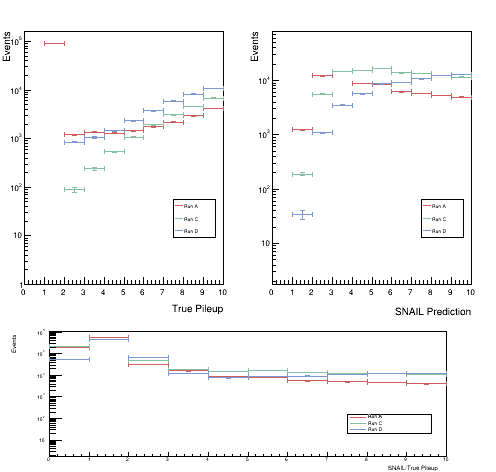
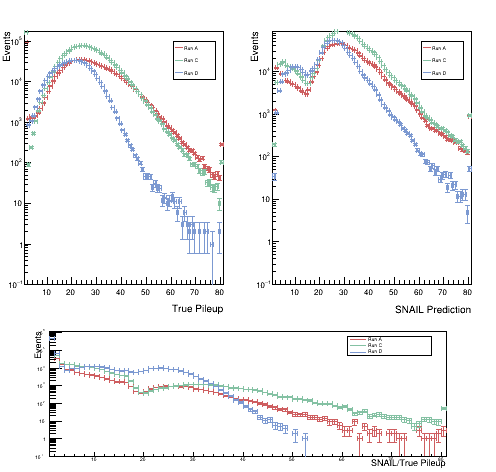
draft plot

diff --git a/genScripts/histpileupFormat.py b/genScripts/histpileupFormat.py
@@ -27,6 +27,9 @@ openfiles3 = []
 hists = []
 hists2 = []
 hists3 = []
+maxlist1 = []
+maxlist2 = []
+maxlist3 = []
 
 # Creating Canvas Pads
 
@@ -102,13 +105,17 @@ for i in tqdm(range(3)):
     hist.GetYaxis().SetTitleOffset(1.0)
     #xMax = hist.GetXaxis().GetXmax() * 1.75
     yMax = hist.GetMaximum() * 1.75
-    hist.SetMaximum(yMax)
+    maxlist1.append(yMax)
+    if i == 2:
+        yMaxn = np.max(np.asarray(maxlist1))
+        hist.SetMaximum(yMaxn)
     #hist.GetXaxis().SetLimits(1, xMax)
-    yMin = hist.GetMinimum() * 1.75
+    hist.SetMinimum(0.1)
+    """yMin = hist.GetMinimum() * 1.75
     if yMin == 0:
         hist.SetMinimum(1)
     else:
-        hist.SetMinimum(yMin)
+        hist.SetMinimum(yMin)"""
     hists.append(hist)
 
     
@@ -120,18 +127,22 @@ for i in tqdm(range(3)):
     hist2.GetYaxis().SetTitle("Events")
     hist2.GetXaxis().SetTitle("SNAIL Prediction")
     hist2.GetXaxis().SetTitleSize(0.045)
-    hist2.GetXaxis().SetTitleOffset(1.2)
+    hist2.GetXaxis().SetTitleOffset(1.1)
     hist2.GetYaxis().SetTitleSize(0.045)
     hist2.GetYaxis().SetTitleOffset(1.0)
     #xMax = hist.GetXaxis().GetXmax() * 1.75
     yMax2 = hist2.GetMaximum() * 1.75
-    hist2.SetMaximum(yMax2)
+    maxlist2.append(yMax2)
+    if i == 2:
+        yMax2n = np.max(np.asarray(maxlist2))
+        hist2.SetMaximum(yMax2n * 1.75)
     #hist.GetXaxis().SetLimits(1, xMax)
-    yMin2 = hist.GetMinimum() * 1.75
+    hist2.SetMinimum(0.1)
+    """yMin2 = hist.GetMinimum() * 1.75
     if yMin2 == 0:
         hist2.SetMinimum(1)
     else:
-        hist2.SetMinimum(yMin2)
+        hist2.SetMinimum(yMin2)"""
     hists2.append(hist2)
 
     hist3.SetLineColor(int(lineColors[i]))
@@ -141,25 +152,29 @@ for i in tqdm(range(3)):
     hist3.SetTitle("")
     hist3.GetYaxis().SetTitle("Events")
     hist3.GetXaxis().SetTitle("SNAIL/True Pileup")
-    hist3.GetXaxis().SetTitleSize(0.045)
-    hist3.GetXaxis().SetTitleOffset(1.0)
-    hist3.GetYaxis().SetTitleSize(0.045)
-    hist3.GetYaxis().SetTitleOffset(1.0)
+    hist3.GetXaxis().SetTitleSize(0.06)
+    hist3.GetXaxis().SetTitleOffset(0.5)
+    hist3.GetYaxis().SetTitleSize(0.06)
+    hist3.GetYaxis().SetTitleOffset(0.25)
     #xMax = hist.GetXaxis().GetXmax() * 1.75
     yMax3 = hist3.GetMaximum() * 1.75
-    hist3.SetMaximum(yMax3)
+    maxlist3.append(yMax3)
+    if i == 2:
+        yMax3n = np.max(np.asarray(maxlist3))
+        hist3.SetMaximum(yMax3n)
     #hist.GetXaxis().SetLimits(1, xMax)
-    yMin3 = hist.GetMinimum() * 1.75
-    if yMin3 == 0:
+    # yMin3 = hist.GetMinimum() * 1.75
+    hist3.SetMinimum(0.1)
+    """if yMin3 == 0:
         hist3.SetMinimum(1)
     else:
-        hist3.SetMinimum(yMin3)
+        hist3.SetMinimum(yMin3)"""
     hists3.append(hist3)
     
     # hists.append(hist2)
-    hists[i].GetXaxis().SetRangeUser(0.0,10.0)
-    hists2[i].GetXaxis().SetRangeUser(0.0,10.0)
-    hists3[i].GetXaxis().SetRangeUser(0.0,10.0)
+    hists[i].GetXaxis().SetRangeUser(1.0,90.0)
+    hists2[i].GetXaxis().SetRangeUser(1.0,90.0)
+    hists3[i].GetXaxis().SetRangeUser(1.0,90.0)
 
     if i == 0:
         pileupPad.cd()
@@ -214,15 +229,15 @@ for i in tqdm(range(3)):
 
 
 predvpileupPad.cd()
-ppleg = predvpileupPad.BuildLegend(0.7, 0.25, 0.87, 0.37)
+ppleg = predvpileupPad.BuildLegend(0.7, 0.75, 0.87, 0.87)
 ppleg.Draw()
 
 predictionPad.cd()
-predleg = predictionPad.BuildLegend(0.7, 0.25, 0.87, 0.37)
+predleg = predictionPad.BuildLegend(0.7, 0.75, 0.87, 0.87)
 predleg.Draw()
 
 pileupPad.cd()
-pileg = pileupPad.BuildLegend(0.7, 0.25, 0.87, 0.37)
+pileg = pileupPad.BuildLegend(0.7, 0.75, 0.87, 0.87)
 pileg.Draw()
 
 canvas.Draw()

diff --git a/genTrainML/NNtest.py b/genTrainML/NNtest.py
@@ -15,6 +15,9 @@ cicadaInput = cicadaInput.reshape(-1, 18, 14, 1)
 pileup = f['pileup'][:1000000] # len() -> 32316864
 f.close()
 
+# split train data to validation and main training
+# take a look at train v validation from the metric. Overfitting check -- employ regularization if overfitting. 70-20-10
+
 # Split Data
 cicada_train, cicada_test, pileup_train, pileup_test = skms.train_test_split(cicadaInput, pileup, test_size=0.20, random_state =1234)
 print(cicada_train.shape, pileup_train.shape)
@@ -36,7 +39,12 @@ model = tf.keras.Sequential(
 model.compile(loss = "mean_squared_error", metrics = ["RootMeanSquaredError"])
 
 # Training Model
-trainHistory = model.fit(cicada_train, pileup_train, batch_size = 32, epochs = 10)
+trainHistory = model.fit(
+    cicada_train, 
+    pileup_train, 
+    batch_size = 32, 
+    epochs = 10
+)
 
 # Quick Learning Curve and Gen Error testing
 """pd.DataFrame(trainHistory.history).plot(figsize = (8,5), grid = True, xlabel = "Epoch", style = ["r--", "r--", "b-", "b-*"])
